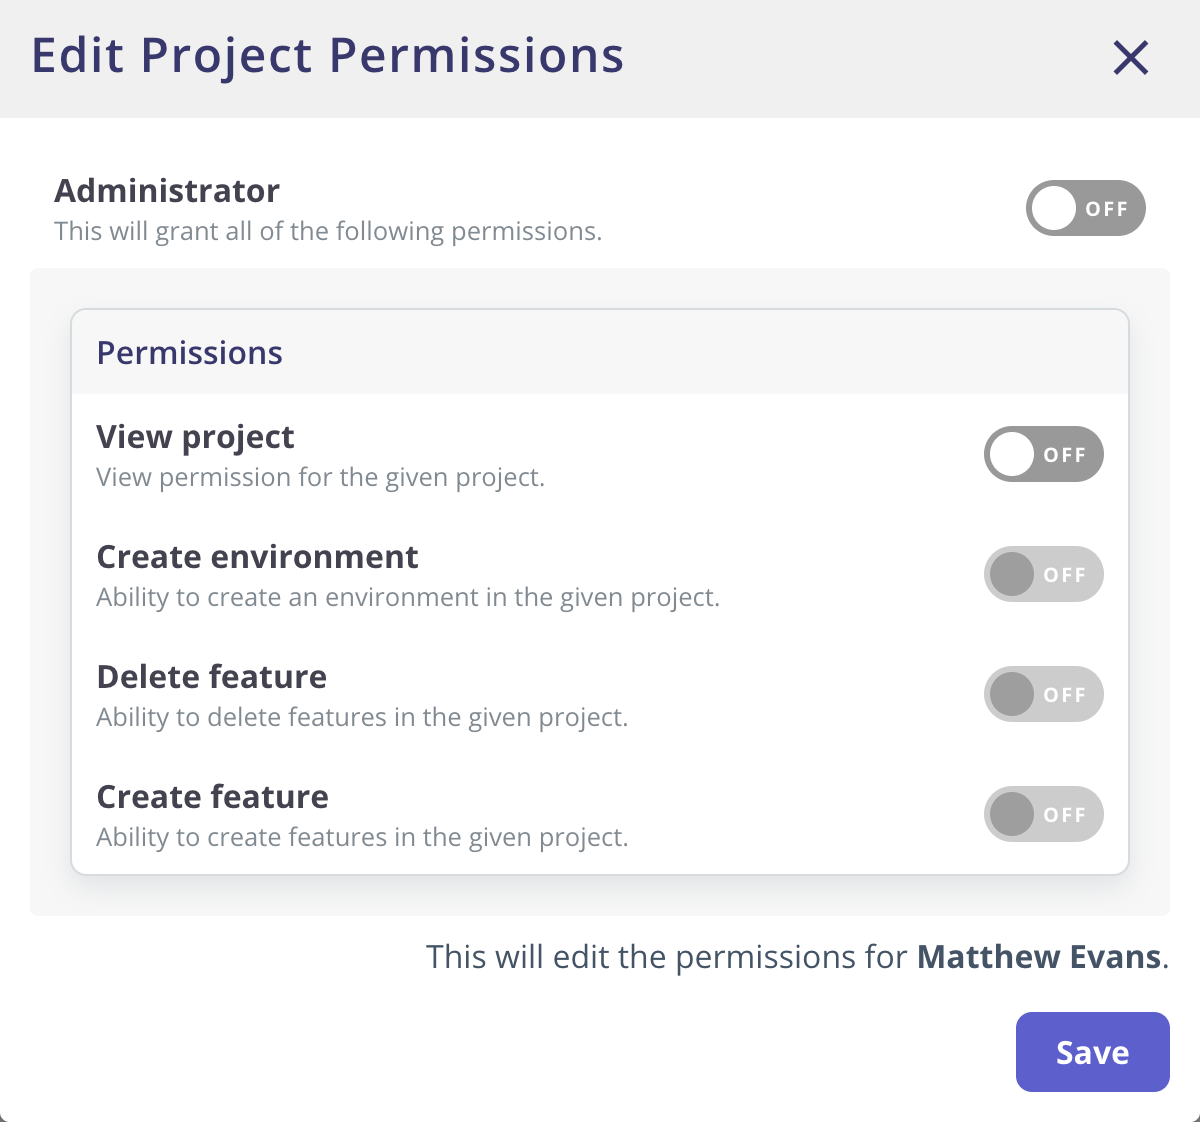
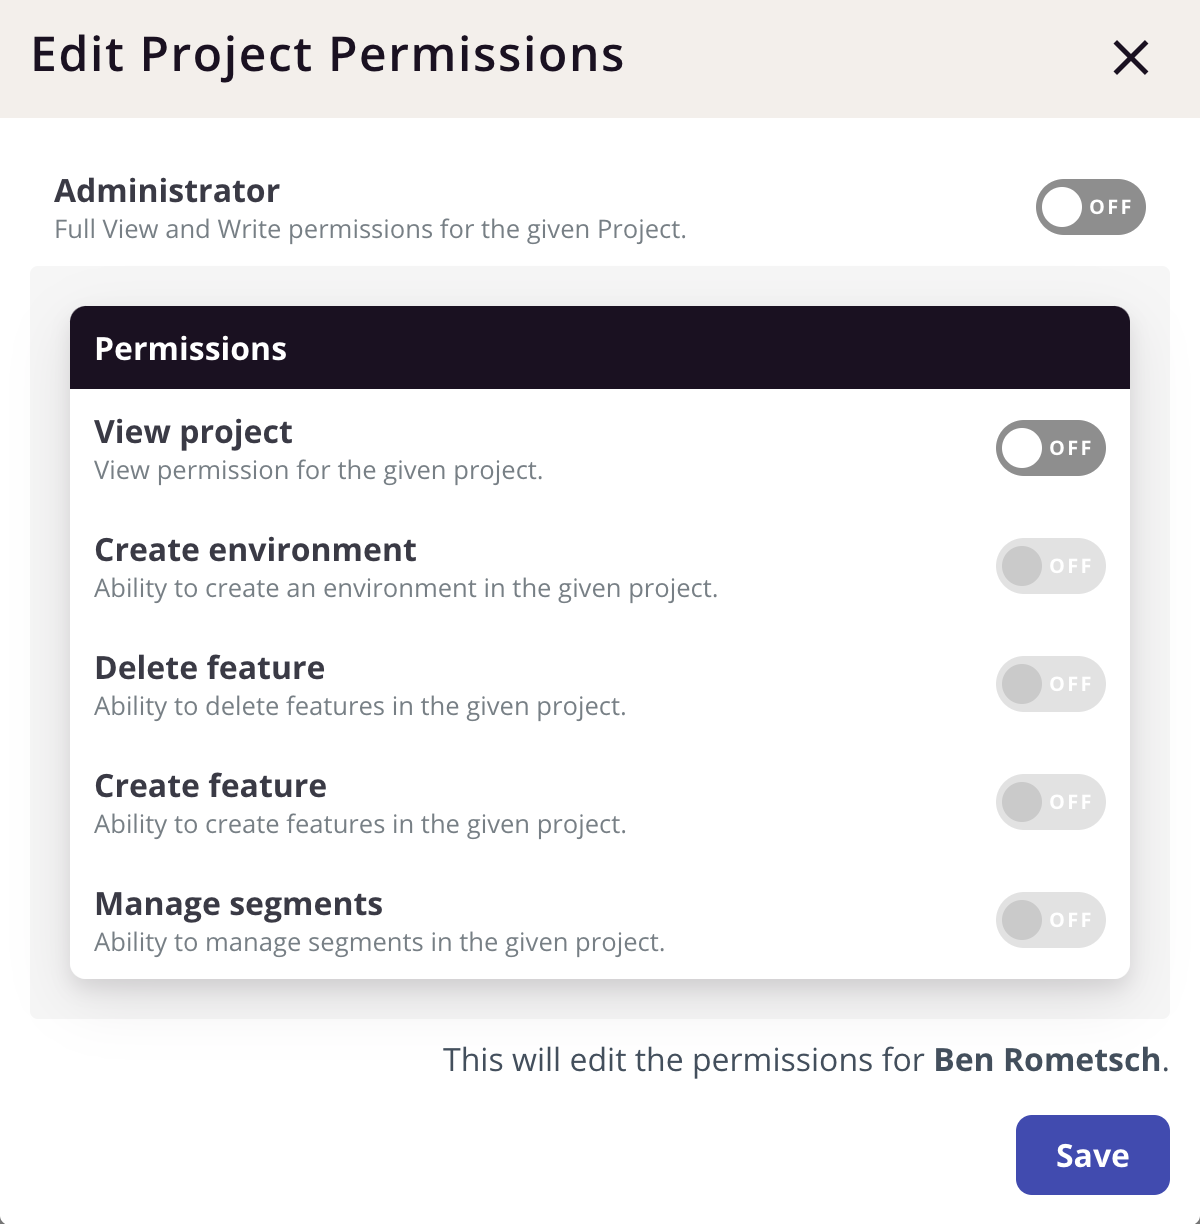
chore/update permissions images

diff --git a/docs/advanced-use/permissions.md b/docs/advanced-use/permissions.md
@@ -46,6 +46,7 @@ Team Members and Groups can be given individual roles at a Project level.
 | Create Environment | Can create new Environments within the Project                                             |
 | Create Feature     | Can create a new Feature / Remote Config                                                   |
 | Delete Feature     | Can remove an existing Feature / Remote Config entirely from the Project                   |
+| Manage Segments    | Can create, delete and edit Segments within the Project                                    |
 
 ![Image](/img/project-permissions.png)
 
@@ -53,9 +54,14 @@ Team Members and Groups can be given individual roles at a Project level.
 
 Team Members and Groups can be given individual roles at an Environment level.
 
-| **Role**         | **Ability**                                               |
-| ---------------- | --------------------------------------------------------- |
-| Administrator    | Can modify Feature Flag, Remote Config and Segment values |
-| View Environment | Can see the Environment within their account              |
+| **Role**               | **Ability**                                               |
+| ---------------------- | --------------------------------------------------------- |
+| Administrator          | Can modify Feature Flag, Remote Config and Segment values |
+| View Environment       | Can see the Environment within their account              |
+| Update Feature State   | Update the state or value for a given feature             |
+| Manage Identities      | View and update Identities                                |
+| Create Change Request  | Creating a new Change Request                             |
+| Approve Change Request | Approving or denying existing Change Requests             |
+| View Identities        | Viewing Identities                                        |
 
 ![Image](/img/environment-permissions.png)
